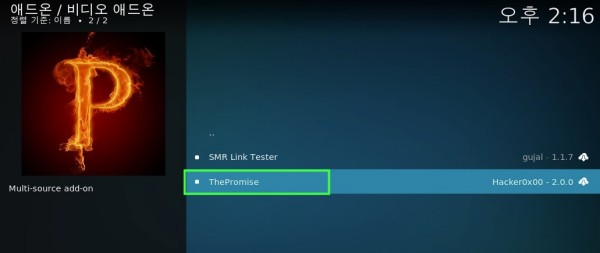
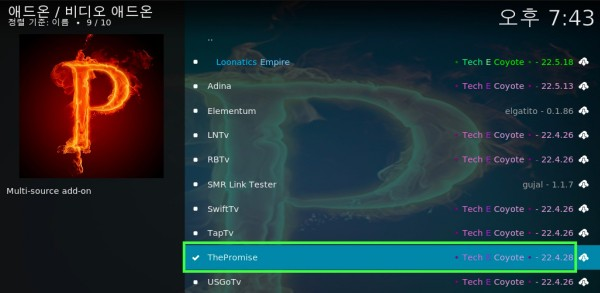
promise

diff --git a/_posts/Living/APP/2022-04-29-KODI-promise.md b/_posts/Living/APP/2022-04-29-KODI-promise.md
@@ -7,9 +7,8 @@ tags: [usefulapp, mac, android, windows, linux, kodi]
 pin:
 ---
 
-## 긴급 ThePromise도 현재 Repo가 막혀 설치가 안되게 되었다.
-> TheOath의 Fork판인 ThePromise도 분쟁으로 접근이 안됨.
- 
+## 긴급 다른 경로를 지인분이 찾아주어 다시 UPDATE함. 아직까지는 설치가능함.
+
 ![oath](/img/living/kodi/promise5.jpg)
 
 `FlyingDeuk's`
@@ -45,7 +44,7 @@ pin:
 > flyingdeuk addon 저장소 이름 **kodi**로 진입 <br>
 
 ![kodi_addon](/img/living/kodi/promise1.jpg)
-- **repository Hacker** : ThePromise 에드온을 설치하기 위한 저장소
+- **repository.loonaticsasylum** : ThePromise 에드온을 설치하기 위한 저장소
 - **a4kSubtiles repository** : 자막 에드온을 설치하기 위한 저장소
 
 두가지를 다 설치해준다.
@@ -61,7 +60,7 @@ Hacker 저장소를 설치했으니 저장소에서 설치로 들어간다.
 > **저장소에서 설치** 선택 <br>
 
 ![kodi_addon](/img/living/kodi/promise2.jpg)
-> **Hacker repo** 저장소를 선택한다.
+> **repository.loonaticsasylum** 저장소를 선택한다.
 
 ![kodi_addon](/img/living/kodi/oath12.jpg)
 > **비디오 에드온** 선택
